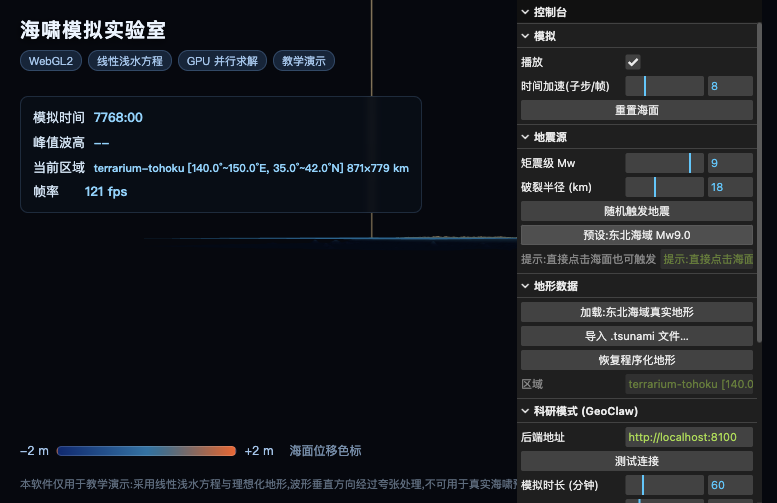
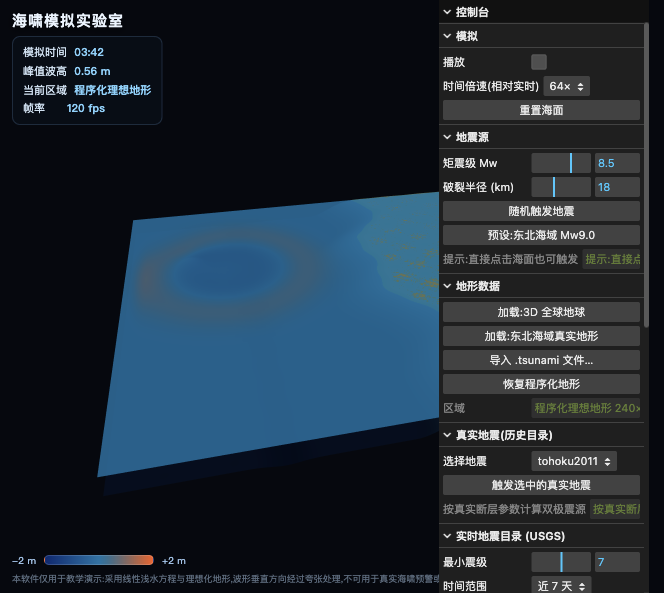
docs: 重截 3D 视角与线框截图(含真实波形),新增 3D 地球模式主图

diff --git a/README.md b/README.md
@@ -10,6 +10,9 @@
 
 ## 效果展示
 
+![3D 全球地球模式](docs/screenshots/showcase-globe.png)
+*3D 全球地球球面模拟:等距圆柱投影 ±84°,真实地形上由东北海域 Mw9.0 震源场激发的球面海啸波纹*
+
 | | |
 |:---:|:---:|
 | ![震源双极波场](docs/screenshots/showcase-wavefield.png) | ![跨域传播](docs/screenshots/showcase-propagation.png) |
